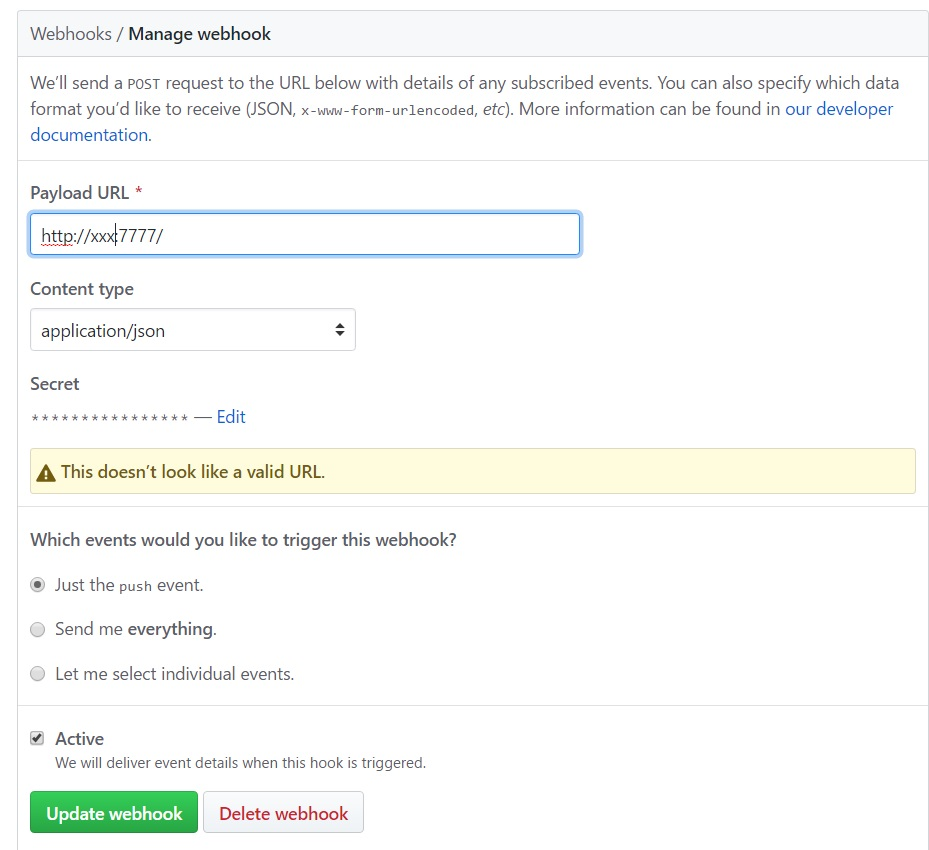
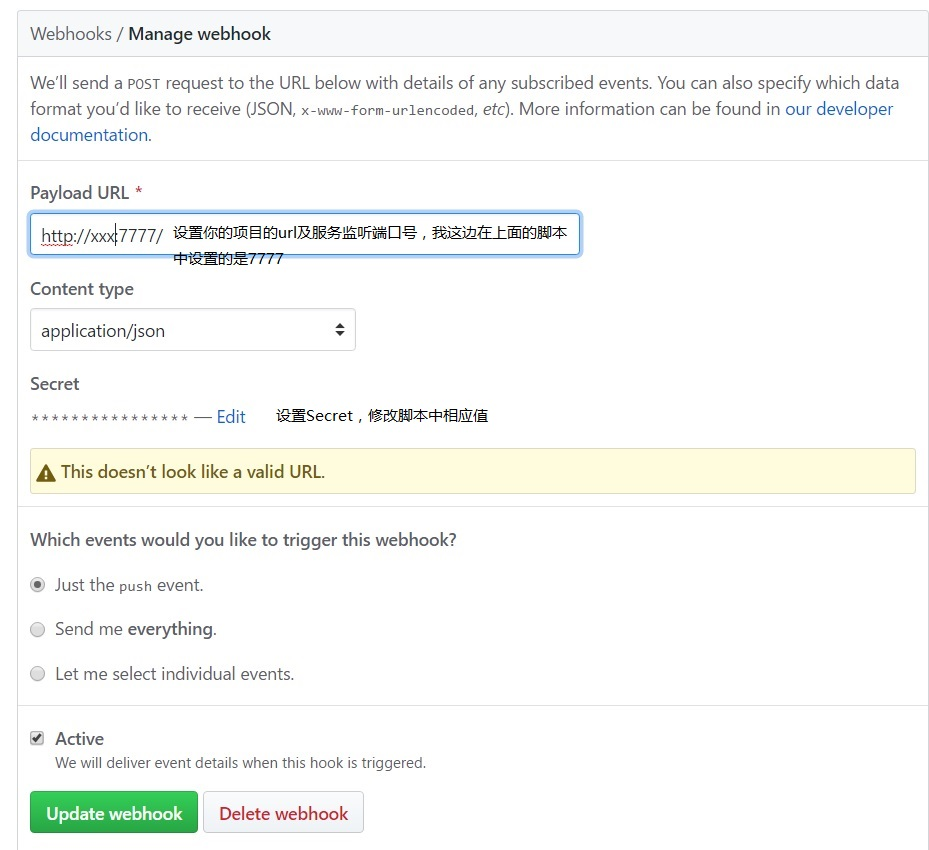
文章更新，自动化部署测试

diff --git a/public/2017/03/13/Github-webhook-vps/index.html b/public/2017/03/13/Github-webhook-vps/index.html
@@ -87,17 +87,20 @@
 
 
 
-<meta name="description" content="待完成">
+<meta name="description" content="花了些时间，把blog自动化部署到了服务器，悲催的事情是，这篇文章快写完的时候出了意外，所有文档都丢了…重新手打…
+原理利用Github在仓库进行操作时，可以通过配置webhook向服务器发送请求，在服务器端接到请求后，使用脚本来自动进行git pull操作。  1、首先构建Node.js服务器代码 webhook.js首先安装github-webhook-handler的中间件，用npm ins">
 <meta property="og:type" content="article">
 <meta property="og:title" content="利用Github的Webhook进行静态网站的自动化部署">
 <meta property="og:url" content="http://yoursite.com/2017/03/13/Github-webhook-vps/index.html">
 <meta property="og:site_name" content="ZhuXi's Blog">
-<meta property="og:description" content="待完成">
+<meta property="og:description" content="花了些时间，把blog自动化部署到了服务器，悲催的事情是，这篇文章快写完的时候出了意外，所有文档都丢了…重新手打…
+原理利用Github在仓库进行操作时，可以通过配置webhook向服务器发送请求，在服务器端接到请求后，使用脚本来自动进行git pull操作。  1、首先构建Node.js服务器代码 webhook.js首先安装github-webhook-handler的中间件，用npm ins">
 <meta property="og:image" content="http://yoursite.com/2017/03/13/Github-webhook-vps/2017-03-13_230427.jpg">
-<meta property="og:updated_time" content="2017-03-13T15:16:18.619Z">
+<meta property="og:updated_time" content="2017-03-14T07:15:11.000Z">
 <meta name="twitter:card" content="summary">
 <meta name="twitter:title" content="利用Github的Webhook进行静态网站的自动化部署">
-<meta name="twitter:description" content="待完成">
+<meta name="twitter:description" content="花了些时间，把blog自动化部署到了服务器，悲催的事情是，这篇文章快写完的时候出了意外，所有文档都丢了…重新手打…
+原理利用Github在仓库进行操作时，可以通过配置webhook向服务器发送请求，在服务器端接到请求后，使用脚本来自动进行git pull操作。  1、首先构建Node.js服务器代码 webhook.js首先安装github-webhook-handler的中间件，用npm ins">
 <meta name="twitter:image" content="http://yoursite.com/2017/03/13/Github-webhook-vps/2017-03-13_230427.jpg">
 
 
@@ -355,7 +358,18 @@
       
 
       
-        <p>待完成</p>
+        <p>花了些时间，把blog自动化部署到了服务器，悲催的事情是，这篇文章快写完的时候出了意外，所有文档都丢了…重新手打…</p>
+<h2 id="原理"><a href="#原理" class="headerlink" title="原理"></a><font color="#0099ff" size="5" face="微软雅黑">原理</font></h2><h2 id="利用Github在仓库进行操作时，可以通过配置webhook向服务器发送请求，在服务器端接到请求后，使用脚本来自动进行git-pull操作。"><a href="#利用Github在仓库进行操作时，可以通过配置webhook向服务器发送请求，在服务器端接到请求后，使用脚本来自动进行git-pull操作。" class="headerlink" title="利用Github在仓库进行操作时，可以通过配置webhook向服务器发送请求，在服务器端接到请求后，使用脚本来自动进行git pull操作。  "></a><font size="3" face="微软雅黑">利用Github在仓库进行操作时，可以通过配置webhook向服务器发送请求，在服务器端接到请求后，使用脚本来自动进行git pull操作。</font>  </h2><h3 id="1、首先构建Node-js服务器代码-webhook-js"><a href="#1、首先构建Node-js服务器代码-webhook-js" class="headerlink" title="1、首先构建Node.js服务器代码 webhook.js"></a>1、首先构建Node.js服务器代码 webhook.js</h3><p>首先安装github-webhook-handler的中间件，用npm install -g github-webhook-handler来全局安装  </p>
+<figure class="highlight plain"><table><tr><td class="gutter"><pre><div class="line">1</div><div class="line">2</div><div class="line">3</div><div class="line">4</div><div class="line">5</div><div class="line">6</div><div class="line">7</div><div class="line">8</div><div class="line">9</div><div class="line">10</div><div class="line">11</div><div class="line">12</div><div class="line">13</div><div class="line">14</div><div class="line">15</div><div class="line">16</div><div class="line">17</div><div class="line">18</div><div class="line">19</div><div class="line">20</div><div class="line">21</div><div class="line">22</div><div class="line">23</div><div class="line">24</div><div class="line">25</div><div class="line">26</div><div class="line">27</div><div class="line">28</div><div class="line">29</div><div class="line">30</div><div class="line">31</div></pre></td><td class="code"><pre><div class="line">var http = require(&apos;http&apos;)</div><div class="line">var createHandler = require(&apos;github-webhook-handler&apos;)</div><div class="line">var handler = createHandler(&#123; path: &apos;/&apos;, secret: &apos;root&apos; &#125;)</div><div class="line">// 上面的 secret 保持和 GitHub 后台设置的一致</div><div class="line"></div><div class="line">function run_cmd(cmd, args, callback) &#123;</div><div class="line">  var spawn = require(&apos;child_process&apos;).spawn;</div><div class="line">  var child = spawn(cmd, args);</div><div class="line">  var resp = &quot;&quot;;</div><div class="line"></div><div class="line">  child.stdout.on(&apos;data&apos;, function(buffer) &#123; resp += buffer.toString(); &#125;);</div><div class="line">  child.stdout.on(&apos;end&apos;, function() &#123; callback (resp) &#125;);</div><div class="line">&#125;</div><div class="line"></div><div class="line">http.createServer(function (req, res) &#123;</div><div class="line">  handler(req, res, function (err) &#123;</div><div class="line">    res.statusCode = 404</div><div class="line">    res.end(&apos;no such location&apos;)</div><div class="line">  &#125;)</div><div class="line">&#125;).listen(7777)</div><div class="line"></div><div class="line">handler.on(&apos;error&apos;, function (err) &#123;</div><div class="line">  console.error(&apos;Error:&apos;, err.message)</div><div class="line">&#125;)</div><div class="line"></div><div class="line">handler.on(&apos;push&apos;, function (event) &#123;</div><div class="line">  console.log(&apos;Received a push event for %s to %s&apos;,</div><div class="line">    event.payload.repository.name,</div><div class="line">    event.payload.ref);</div><div class="line">    run_cmd(&apos;sh&apos;, [&apos;./deploy.sh&apos;,event.payload.repository.name], function(text)&#123; console.log(text) &#125;);</div><div class="line">&#125;)</div></pre></td></tr></table></figure>
+<p>其中： </p>
+<figure class="highlight plain"><table><tr><td class="gutter"><pre><div class="line">1</div></pre></td><td class="code"><pre><div class="line">var handler = createHandler(&#123; path: &apos;/&apos;, secret: &apos;root&apos; &#125;)</div></pre></td></tr></table></figure>
+<h2 id="secret为在Github进行设置时的值。"><a href="#secret为在Github进行设置时的值。" class="headerlink" title="secret为在Github进行设置时的值。  "></a>secret为在Github进行设置时的值。  </h2><h3 id="2、完成deploy-sh脚本"><a href="#2、完成deploy-sh脚本" class="headerlink" title="2、完成deploy.sh脚本"></a>2、完成deploy.sh脚本</h3><figure class="highlight plain"><table><tr><td class="gutter"><pre><div class="line">1</div><div class="line">2</div><div class="line">3</div><div class="line">4</div><div class="line">5</div><div class="line">6</div><div class="line">7</div><div class="line">8</div><div class="line">9</div></pre></td><td class="code"><pre><div class="line">#!/bin/bash</div><div class="line"> </div><div class="line">WEB_PATH=&apos;/usr/hexo&apos;</div><div class="line"> </div><div class="line">echo &quot;Start deployment&quot;</div><div class="line">cd $WEB_PATH</div><div class="line">echo &quot;pulling source code...&quot;</div><div class="line">git pull origin master</div><div class="line">echo &quot;Finished.&quot;</div></pre></td></tr></table></figure>
+<p>其中<code>WEB_PATH</code>为项目路径，根据实际项目位置，需要修改<code>WEB_PATH</code>值。  </p>
+<h2 id="另外如果是全新项目，需要在服务器上先clone要部署的项目。"><a href="#另外如果是全新项目，需要在服务器上先clone要部署的项目。" class="headerlink" title="另外如果是全新项目，需要在服务器上先clone要部署的项目。  "></a>另外如果是全新项目，需要在服务器上先clone要部署的项目。  </h2><h3 id="3、使用pm2后台运行webhook-js脚本"><a href="#3、使用pm2后台运行webhook-js脚本" class="headerlink" title="3、使用pm2后台运行webhook.js脚本"></a>3、使用pm2后台运行webhook.js脚本</h3><p>网上比较多的是使用forever对node进行后台运行及监控，我这里使用pm2替代，pm2是为了改变forever一些缺陷而开发的。<br>安装pm2：<br><figure class="highlight plain"><table><tr><td class="gutter"><pre><div class="line">1</div></pre></td><td class="code"><pre><div class="line">npm install pm2 -g</div></pre></td></tr></table></figure></p>
+<p>运行webhook.js</p>
+<pre><code>pm2 start webhook.js
+</code></pre><hr>
+<h3 id="4、进入Gtihub后台进行设置，添加webhook"><a href="#4、进入Gtihub后台进行设置，添加webhook" class="headerlink" title="4、进入Gtihub后台进行设置，添加webhook"></a>4、进入Gtihub后台进行设置，添加webhook</h3><p>进入需要自动部署的项目的github地址，进入setting设置页面，点击左侧的<code>Webhooks &amp; services</code></p>
 <p><img src="/2017/03/13/Github-webhook-vps/2017-03-13_230427.jpg" alt="logo"></p>
 
       
@@ -452,8 +466,17 @@
       
 
       
+        <ul class="sidebar-nav motion-element">
+          <li class="sidebar-nav-toc sidebar-nav-active" data-target="post-toc-wrap" >
+            文章目录
+          </li>
+          <li class="sidebar-nav-overview" data-target="site-overview">
+            站点概览
+          </li>
+        </ul>
+      
 
-      <section class="site-overview sidebar-panel sidebar-panel-active">
+      <section class="site-overview sidebar-panel">
         <div class="site-author motion-element" itemprop="author" itemscope itemtype="http://schema.org/Person">
           <img class="site-author-image" itemprop="image"
                src="/uploads/headPic.jpg"
@@ -532,6 +555,22 @@
 
       </section>
 
+      
+      <!--noindex-->
+        <section class="post-toc-wrap motion-element sidebar-panel sidebar-panel-active">
+          <div class="post-toc">
+
+            
+              
+            
+
+            
+              <div class="post-toc-content"><ol class="nav"><li class="nav-item nav-level-2"><a class="nav-link" href="#原理"><span class="nav-number">1.</span> <span class="nav-text">原理</span></a></li><li class="nav-item nav-level-2"><a class="nav-link" href="#利用Github在仓库进行操作时，可以通过配置webhook向服务器发送请求，在服务器端接到请求后，使用脚本来自动进行git-pull操作。"><span class="nav-number">2.</span> <span class="nav-text">利用Github在仓库进行操作时，可以通过配置webhook向服务器发送请求，在服务器端接到请求后，使用脚本来自动进行git pull操作。  </span></a><ol class="nav-child"><li class="nav-item nav-level-3"><a class="nav-link" href="#1、首先构建Node-js服务器代码-webhook-js"><span class="nav-number">2.1.</span> <span class="nav-text">1、首先构建Node.js服务器代码 webhook.js</span></a></li></ol></li><li class="nav-item nav-level-2"><a class="nav-link" href="#secret为在Github进行设置时的值。"><span class="nav-number">3.</span> <span class="nav-text">secret为在Github进行设置时的值。  </span></a><ol class="nav-child"><li class="nav-item nav-level-3"><a class="nav-link" href="#2、完成deploy-sh脚本"><span class="nav-number">3.1.</span> <span class="nav-text">2、完成deploy.sh脚本</span></a></li></ol></li><li class="nav-item nav-level-2"><a class="nav-link" href="#另外如果是全新项目，需要在服务器上先clone要部署的项目。"><span class="nav-number">4.</span> <span class="nav-text">另外如果是全新项目，需要在服务器上先clone要部署的项目。  </span></a><ol class="nav-child"><li class="nav-item nav-level-3"><a class="nav-link" href="#3、使用pm2后台运行webhook-js脚本"><span class="nav-number">4.1.</span> <span class="nav-text">3、使用pm2后台运行webhook.js脚本</span></a></li><li class="nav-item nav-level-3"><a class="nav-link" href="#4、进入Gtihub后台进行设置，添加webhook"><span class="nav-number">4.2.</span> <span class="nav-text">4、进入Gtihub后台进行设置，添加webhook</span></a></li></ol></li></ol></div>
+            
+
+          </div>
+        </section>
+      <!--/noindex-->
       
 
       

diff --git a/public/index.html b/public/index.html
@@ -356,7 +356,18 @@
       
         
           
-            <p>待完成</p>
+            <p>花了些时间，把blog自动化部署到了服务器，悲催的事情是，这篇文章快写完的时候出了意外，所有文档都丢了…重新手打…</p>
+<h2 id="原理"><a href="#原理" class="headerlink" title="原理"></a><font color="#0099ff" size="5" face="微软雅黑">原理</font></h2><h2 id="利用Github在仓库进行操作时，可以通过配置webhook向服务器发送请求，在服务器端接到请求后，使用脚本来自动进行git-pull操作。"><a href="#利用Github在仓库进行操作时，可以通过配置webhook向服务器发送请求，在服务器端接到请求后，使用脚本来自动进行git-pull操作。" class="headerlink" title="利用Github在仓库进行操作时，可以通过配置webhook向服务器发送请求，在服务器端接到请求后，使用脚本来自动进行git pull操作。  "></a><font size="3" face="微软雅黑">利用Github在仓库进行操作时，可以通过配置webhook向服务器发送请求，在服务器端接到请求后，使用脚本来自动进行git pull操作。</font>  </h2><h3 id="1、首先构建Node-js服务器代码-webhook-js"><a href="#1、首先构建Node-js服务器代码-webhook-js" class="headerlink" title="1、首先构建Node.js服务器代码 webhook.js"></a>1、首先构建Node.js服务器代码 webhook.js</h3><p>首先安装github-webhook-handler的中间件，用npm install -g github-webhook-handler来全局安装  </p>
+<figure class="highlight plain"><table><tr><td class="gutter"><pre><div class="line">1</div><div class="line">2</div><div class="line">3</div><div class="line">4</div><div class="line">5</div><div class="line">6</div><div class="line">7</div><div class="line">8</div><div class="line">9</div><div class="line">10</div><div class="line">11</div><div class="line">12</div><div class="line">13</div><div class="line">14</div><div class="line">15</div><div class="line">16</div><div class="line">17</div><div class="line">18</div><div class="line">19</div><div class="line">20</div><div class="line">21</div><div class="line">22</div><div class="line">23</div><div class="line">24</div><div class="line">25</div><div class="line">26</div><div class="line">27</div><div class="line">28</div><div class="line">29</div><div class="line">30</div><div class="line">31</div></pre></td><td class="code"><pre><div class="line">var http = require(&apos;http&apos;)</div><div class="line">var createHandler = require(&apos;github-webhook-handler&apos;)</div><div class="line">var handler = createHandler(&#123; path: &apos;/&apos;, secret: &apos;root&apos; &#125;)</div><div class="line">// 上面的 secret 保持和 GitHub 后台设置的一致</div><div class="line"></div><div class="line">function run_cmd(cmd, args, callback) &#123;</div><div class="line">  var spawn = require(&apos;child_process&apos;).spawn;</div><div class="line">  var child = spawn(cmd, args);</div><div class="line">  var resp = &quot;&quot;;</div><div class="line"></div><div class="line">  child.stdout.on(&apos;data&apos;, function(buffer) &#123; resp += buffer.toString(); &#125;);</div><div class="line">  child.stdout.on(&apos;end&apos;, function() &#123; callback (resp) &#125;);</div><div class="line">&#125;</div><div class="line"></div><div class="line">http.createServer(function (req, res) &#123;</div><div class="line">  handler(req, res, function (err) &#123;</div><div class="line">    res.statusCode = 404</div><div class="line">    res.end(&apos;no such location&apos;)</div><div class="line">  &#125;)</div><div class="line">&#125;).listen(7777)</div><div class="line"></div><div class="line">handler.on(&apos;error&apos;, function (err) &#123;</div><div class="line">  console.error(&apos;Error:&apos;, err.message)</div><div class="line">&#125;)</div><div class="line"></div><div class="line">handler.on(&apos;push&apos;, function (event) &#123;</div><div class="line">  console.log(&apos;Received a push event for %s to %s&apos;,</div><div class="line">    event.payload.repository.name,</div><div class="line">    event.payload.ref);</div><div class="line">    run_cmd(&apos;sh&apos;, [&apos;./deploy.sh&apos;,event.payload.repository.name], function(text)&#123; console.log(text) &#125;);</div><div class="line">&#125;)</div></pre></td></tr></table></figure>
+<p>其中： </p>
+<figure class="highlight plain"><table><tr><td class="gutter"><pre><div class="line">1</div></pre></td><td class="code"><pre><div class="line">var handler = createHandler(&#123; path: &apos;/&apos;, secret: &apos;root&apos; &#125;)</div></pre></td></tr></table></figure>
+<h2 id="secret为在Github进行设置时的值。"><a href="#secret为在Github进行设置时的值。" class="headerlink" title="secret为在Github进行设置时的值。  "></a>secret为在Github进行设置时的值。  </h2><h3 id="2、完成deploy-sh脚本"><a href="#2、完成deploy-sh脚本" class="headerlink" title="2、完成deploy.sh脚本"></a>2、完成deploy.sh脚本</h3><figure class="highlight plain"><table><tr><td class="gutter"><pre><div class="line">1</div><div class="line">2</div><div class="line">3</div><div class="line">4</div><div class="line">5</div><div class="line">6</div><div class="line">7</div><div class="line">8</div><div class="line">9</div></pre></td><td class="code"><pre><div class="line">#!/bin/bash</div><div class="line"> </div><div class="line">WEB_PATH=&apos;/usr/hexo&apos;</div><div class="line"> </div><div class="line">echo &quot;Start deployment&quot;</div><div class="line">cd $WEB_PATH</div><div class="line">echo &quot;pulling source code...&quot;</div><div class="line">git pull origin master</div><div class="line">echo &quot;Finished.&quot;</div></pre></td></tr></table></figure>
+<p>其中<code>WEB_PATH</code>为项目路径，根据实际项目位置，需要修改<code>WEB_PATH</code>值。  </p>
+<h2 id="另外如果是全新项目，需要在服务器上先clone要部署的项目。"><a href="#另外如果是全新项目，需要在服务器上先clone要部署的项目。" class="headerlink" title="另外如果是全新项目，需要在服务器上先clone要部署的项目。  "></a>另外如果是全新项目，需要在服务器上先clone要部署的项目。  </h2><h3 id="3、使用pm2后台运行webhook-js脚本"><a href="#3、使用pm2后台运行webhook-js脚本" class="headerlink" title="3、使用pm2后台运行webhook.js脚本"></a>3、使用pm2后台运行webhook.js脚本</h3><p>网上比较多的是使用forever对node进行后台运行及监控，我这里使用pm2替代，pm2是为了改变forever一些缺陷而开发的。<br>安装pm2：<br><figure class="highlight plain"><table><tr><td class="gutter"><pre><div class="line">1</div></pre></td><td class="code"><pre><div class="line">npm install pm2 -g</div></pre></td></tr></table></figure></p>
+<p>运行webhook.js</p>
+<pre><code>pm2 start webhook.js
+</code></pre><hr>
+<h3 id="4、进入Gtihub后台进行设置，添加webhook"><a href="#4、进入Gtihub后台进行设置，添加webhook" class="headerlink" title="4、进入Gtihub后台进行设置，添加webhook"></a>4、进入Gtihub后台进行设置，添加webhook</h3><p>进入需要自动部署的项目的github地址，进入setting设置页面，点击左侧的<code>Webhooks &amp; services</code></p>
 <p><img src="/2017/03/13/Github-webhook-vps/2017-03-13_230427.jpg" alt="logo"></p>
 
           

diff --git a/public/2017/03/08/Hello-World/index.html b/public/2017/03/08/Hello-World/index.html
@@ -93,7 +93,7 @@
 <meta property="og:url" content="http://yoursite.com/2017/03/08/Hello-World/index.html">
 <meta property="og:site_name" content="ZhuXi's Blog">
 <meta property="og:description" content="&amp;#160; &amp;#160; &amp;#160; &amp;#160;花了几天的时间，自己的博客终于正式上线了，也终于拥有属于自己的博客了。&amp;#160; &amp;#160; &amp;#160; &amp;#160;之所以想搭建一个自己的博客，一方面是希望在学习中能够和大家一起分享&amp;amp;讨论，只有不断的分享、讨论，才能得到更大的进步。另一方面也锻炼下自己的写作总结能力，记录下自己的一个学习历程，为之后的学习之路留下一份可以查阅的资">
-<meta property="og:updated_time" content="2017-03-08T11:14:23.957Z">
+<meta property="og:updated_time" content="2017-03-14T03:25:06.761Z">
 <meta name="twitter:card" content="summary">
 <meta name="twitter:title" content="序章">
 <meta name="twitter:description" content="&amp;#160; &amp;#160; &amp;#160; &amp;#160;花了几天的时间，自己的博客终于正式上线了，也终于拥有属于自己的博客了。&amp;#160; &amp;#160; &amp;#160; &amp;#160;之所以想搭建一个自己的博客，一方面是希望在学习中能够和大家一起分享&amp;amp;讨论，只有不断的分享、讨论，才能得到更大的进步。另一方面也锻炼下自己的写作总结能力，记录下自己的一个学习历程，为之后的学习之路留下一份可以查阅的资">

diff --git a/public/categories/index.html b/public/categories/index.html
@@ -91,7 +91,7 @@
 <meta property="og:title" content="分类">
 <meta property="og:url" content="http://yoursite.com/categories/index.html">
 <meta property="og:site_name" content="ZhuXi's Blog">
-<meta property="og:updated_time" content="2017-03-08T11:14:23.958Z">
+<meta property="og:updated_time" content="2017-03-14T03:25:06.762Z">
 <meta name="twitter:card" content="summary">
 <meta name="twitter:title" content="分类">
 

diff --git a/public/tags/index.html b/public/tags/index.html
@@ -91,7 +91,7 @@
 <meta property="og:title" content="All tags">
 <meta property="og:url" content="http://yoursite.com/tags/index.html">
 <meta property="og:site_name" content="ZhuXi's Blog">
-<meta property="og:updated_time" content="2017-03-08T11:14:23.960Z">
+<meta property="og:updated_time" content="2017-03-14T03:25:06.762Z">
 <meta name="twitter:card" content="summary">
 <meta name="twitter:title" content="All tags">
 

diff --git a/source/_posts/Github-webhook-vps.md b/source/_posts/Github-webhook-vps.md
@@ -5,11 +5,86 @@ tags: [Git,Linux,Hexo]
 categories: "Git" #文章分類目錄 可以省略
 ---
 
-待完成
-测试1
-测试2
-测试3
-测试4
+花了些时间，把blog自动化部署到了服务器，悲催的事情是，这篇文章快写完的时候出了意外，所有文档都丢了...重新手打...
+
+## <font color=#0099ff size=5 face="微软雅黑">原理</font>  
+
+<font size=3 face="微软雅黑">利用Github在仓库进行操作时，可以通过配置webhook向服务器发送请求，在服务器端接到请求后，使用脚本来自动进行git pull操作。</font>  
+---  
+
+### 1、首先构建Node.js服务器代码 webhook.js  
+首先安装github-webhook-handler的中间件，用npm install -g github-webhook-handler来全局安装  
+
+```
+var http = require('http')
+var createHandler = require('github-webhook-handler')
+var handler = createHandler({ path: '/', secret: 'root' })
+// 上面的 secret 保持和 GitHub 后台设置的一致
+
+function run_cmd(cmd, args, callback) {
+  var spawn = require('child_process').spawn;
+  var child = spawn(cmd, args);
+  var resp = "";
+
+  child.stdout.on('data', function(buffer) { resp += buffer.toString(); });
+  child.stdout.on('end', function() { callback (resp) });
+}
+
+http.createServer(function (req, res) {
+  handler(req, res, function (err) {
+    res.statusCode = 404
+    res.end('no such location')
+  })
+}).listen(7777)
+
+handler.on('error', function (err) {
+  console.error('Error:', err.message)
+})
+
+handler.on('push', function (event) {
+  console.log('Received a push event for %s to %s',
+    event.payload.repository.name,
+    event.payload.ref);
+    run_cmd('sh', ['./deploy.sh',event.payload.repository.name], function(text){ console.log(text) });
+})  
+```
+其中： 
+
+
+```
+var handler = createHandler({ path: '/', secret: 'root' })
+```
+
+secret为在Github进行设置时的值。  
+---
+### 2、完成deploy.sh脚本
+```
+#!/bin/bash
+ 
+WEB_PATH='/usr/hexo'
+ 
+echo "Start deployment"
+cd $WEB_PATH
+echo "pulling source code..."
+git pull origin master
+echo "Finished."  
+```
+其中`WEB_PATH`为项目路径，根据实际项目位置，需要修改`WEB_PATH`值。  
+另外如果是全新项目，需要在服务器上先clone要部署的项目。  
+---
+### 3、使用pm2后台运行webhook.js脚本  
+网上比较多的是使用forever对node进行后台运行及监控，我这里使用pm2替代，pm2是为了改变forever一些缺陷而开发的。  
+安装pm2：
+```
+npm install pm2 -g
+```
+运行webhook.js
+```
+pm2 start webhook.js
+```  
+
+---
+### 4、进入Gtihub后台进行设置，添加webhook  
+进入需要自动部署的项目的github地址，进入setting设置页面，点击左侧的`Webhooks & services`
 
 ![logo](Github-webhook-vps\2017-03-13_230427.jpg)
-nohup node deploy.js > deploy.log &
